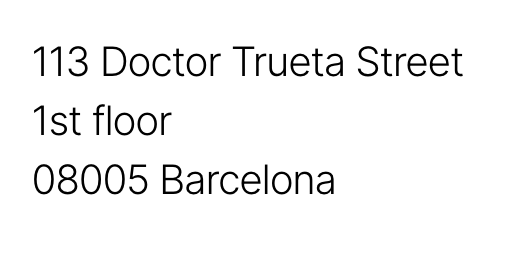
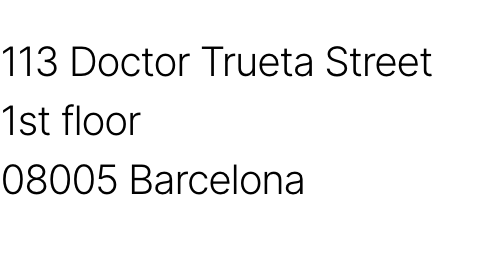
component layout

Changed region(s): [[0.0, 0.1562, 0.9099, 0.3125], [0.0, 0.625, 0.6751, 0.7812], [0.0, 0.4062, 0.3522, 0.5312]]

diff --git a/components/index.html b/components/index.html
@@ -38,16 +38,18 @@
             <p>Used for main and side navbars, case cards, contact section button, and footer</p>
 
             <!--Use srcset to correct screenshot to actual size since Mac screenshots 2x resolution-->
-            <img class="component__image"
-                alt="Body text example" 
-                srcset="images/footer__address.png 2x"
-                src="images/footer__address.png"
-            >
+            <div class="component-container">
+                <img class="component__image"
+                    alt="Body text example" 
+                    srcset="images/footer__address.png 2x"
+                    src="images/footer__address.png"
+                >
 
-            <div class="component__code width--small">
-                <p>113 Doctor Trueta Street<br>
-                1st floor<br>
-                08005 Barcelona</p>
+                <div class="component__code">
+                    <p>113 Doctor Trueta Street<br>
+                    1st floor<br>
+                    08005 Barcelona</p>
+                </div>
             </div>
         </article>
         
@@ -55,15 +57,17 @@
             <h3 class="component__title border-top">Body Small</h3>
 
             <p>Smaller font size used for case card location, case card client, and footer copyright text (.casecard__location, .case-card__client, .footer__copyright)</p>
-                
-            <img class="component__image"
-                alt="Body small text example" 
-                srcset="images/footer__copyright.png 2x"
-                src="images/footer__copyright.png"
-            >
+            
+            <div class="component-container">
+                <img class="component__image"
+                    alt="Body small text example" 
+                    srcset="images/footer__copyright.png 2x"
+                    src="images/footer__copyright.png"
+                >
 
-            <div class="component__code width--small">
-                <p class="p--small">©2026 Lobelia. All rights reserved.</p>
+                <div class="component__code">
+                    <p class="p--small">©2026 Lobelia. All rights reserved.</p>
+                </div>
             </div>
         </article>
         
@@ -71,16 +75,16 @@
             <h3 class="component__title border-top">Body Large</h3>
 
             <p>Larger font size used for case study card topic text (.case-card__topic)</p>
-                
-            <img class="component__image"
-                alt="Body large text example" 
-                srcset="images/case-card__topic.png 2x"
-                src="images/case-card__topic.png"
-            >
+            
+            <div class="component-container">
+                <img class="component__image"
+                    alt="Body large text example" 
+                    srcset="images/case-card__topic.png 2x"
+                    src="images/case-card__topic.png"
+                >
 
-            <div class="component__code width--medium">
-                <div class="background--black">
-                    <p class="p--large color--white">How can soil moisture anticipate <br> deadly locust outbreaks?</p>
+                <div class="component__code">
+                    <p class="p--large background--black color--white">How can soil moisture anticipate <br> deadly locust outbreaks?</p>
                 </div>
             </div>
         </article>
@@ -89,15 +93,17 @@
             <h3 class="component__title border-top">Body Uppercase</h3>
 
             <p>Uppercase used for for header navbar, contact button, and case study card client text (.header__navbar, .section-contact__button, .case-card__client)</p>
-                
-            <img class="component__image"
-                alt="Uppercase text example" 
-                srcset="images/section-contact__button-text.png 2x"
-                src="images/section-contact__button-text.png"
-            >
+            
+            <div class="component-container">
+                <img class="component__image"
+                    alt="Uppercase text example" 
+                    srcset="images/section-contact__button-text.png 2x"
+                    src="images/section-contact__button-text.png"
+                >
 
-            <div class="component__code width--x-small">
-                <p class=" p--small p--uppercase"> Get in touch</p>
+                <div class="component__code">
+                    <p class="p--small p--uppercase"> Get in touch</p>
+                </div>
             </div>
         </article>
 
@@ -105,16 +111,16 @@
             <h3 class="component__title border-top">Heading Default</h3>
 
             <p>Used for section headings (.section-cases, .section-contact)<p>
-                
-            <img class="component__image"
-                alt="Uppercase text example" 
-                srcset="images/section-cases__heading.png 2x"
-                src="images/section-cases__heading.png"
-            >
+            
+            <div class="component-container">
+                <img class="component__image"
+                    alt="Uppercase text example" 
+                    srcset="images/section-cases__heading.png 2x"
+                    src="images/section-cases__heading.png"
+                >
 
-            <div class="component__code width--large">
-                <div class="background--black">
-                    <h2 class="color--white">Keep track of <br> what’s changing <br> to improve your <br> decision <br> making.</h2>
+                <div class="component__code">
+                    <h2 class="color--white background--black">Keep track of <br> what’s changing <br> to improve your <br> decision <br> making.</h2>
                 </div>
             </div>
         </article>
@@ -123,21 +129,23 @@
             <h3 class="component__title border-top">Heading Large</h3>
 
             <p>Larger font size used for contact section heading (.section-contact__heading)</p>
-                
-            <img class="component__image"
-                alt="Uppercase text example" 
-                srcset="images/section-contact__heading.png 2x"
-                src="images/section-contact__heading.png"
-            >
+            
+            <div class="component-container">
+                <img class="component__image"
+                    alt="Uppercase text example" 
+                    srcset="images/section-contact__heading.png 2x"
+                    src="images/section-contact__heading.png"
+                >
 
-            <div class="component__code width--x-large">
-                <h2 class="h2--large">Ready to take action?</h2>
+                <div class="component__code">
+                    <h2 class="h2--large">Ready to take action?</h2>
+                </div>
             </div>
         </article>
 
     <!-- HEADER -->
     <h2 class="border-top" id="header">Header</h2>
-        <article class="component">
+        <article class="component component-container">
             <img class="component__image"
                 alt="Header screenshot" 
                 srcset="images/header.png 2x"
@@ -165,7 +173,7 @@
 
     <!-- CASE CARD -->
     <h2 class="border-top" id="case-card">Case Card</h2>
-        <article class="component">
+        <article class="component component-container">
             
             <img class="component__image"
                 alt="Screenshot of case study card"
@@ -199,7 +207,7 @@
 
     <!-- FOOTER -->
     <h2 class="border-top" id="footer">Footer</h2>
-        <article class="component">
+        <article class="component component-container">
             <img 
                 class="component__image"
                 alt="Footer screenshot" 

diff --git a/css/main.css b/css/main.css
@@ -39,6 +39,7 @@ main {
 .background--black {
     background: var(--color-black);
     padding: 2rem;
+    margin: 0;
 }
 
 h1 {
@@ -89,39 +90,14 @@ h3 {
     padding: 0 1rem;
 }
 
+.component-container {
+    padding: 2rem;
+    border: 1px solid var(--color-light-gray);
+    border-radius: 1rem;
+}
+
 .component__image {
-    max-width: initial;
-    overflow-x: auto;
-    padding: 1rem;
-    border: 1px solid var(--color-light-gray);
-    border-radius: 1rem;
-}
-
-.component__code {
-    margin-top: 1rem;
-    padding: 1rem;
-    border: 1px solid var(--color-light-gray);
-    border-radius: 1rem;
-}
-
-.width--x-small {
-    max-width: 8rem;
-}
-
-.width--small {
-    max-width: 18rem;
-}
-
-.width--medium {
-    max-width: 32rem;
-}
-
-.width--large {
-    max-width: 40rem;
-}
-
-.width--x-large {
-    max-width: 68rem;
+    margin-bottom: 1rem;
 }
 
 /* ==== TYPOGRAPHY ==== */
@@ -130,7 +106,6 @@ h3 {
 
 body {
   font-family: var(--font-sans-serif);
-  font-optical-sizing: auto;
   font-weight: 300;
   font-style: normal;
 }
